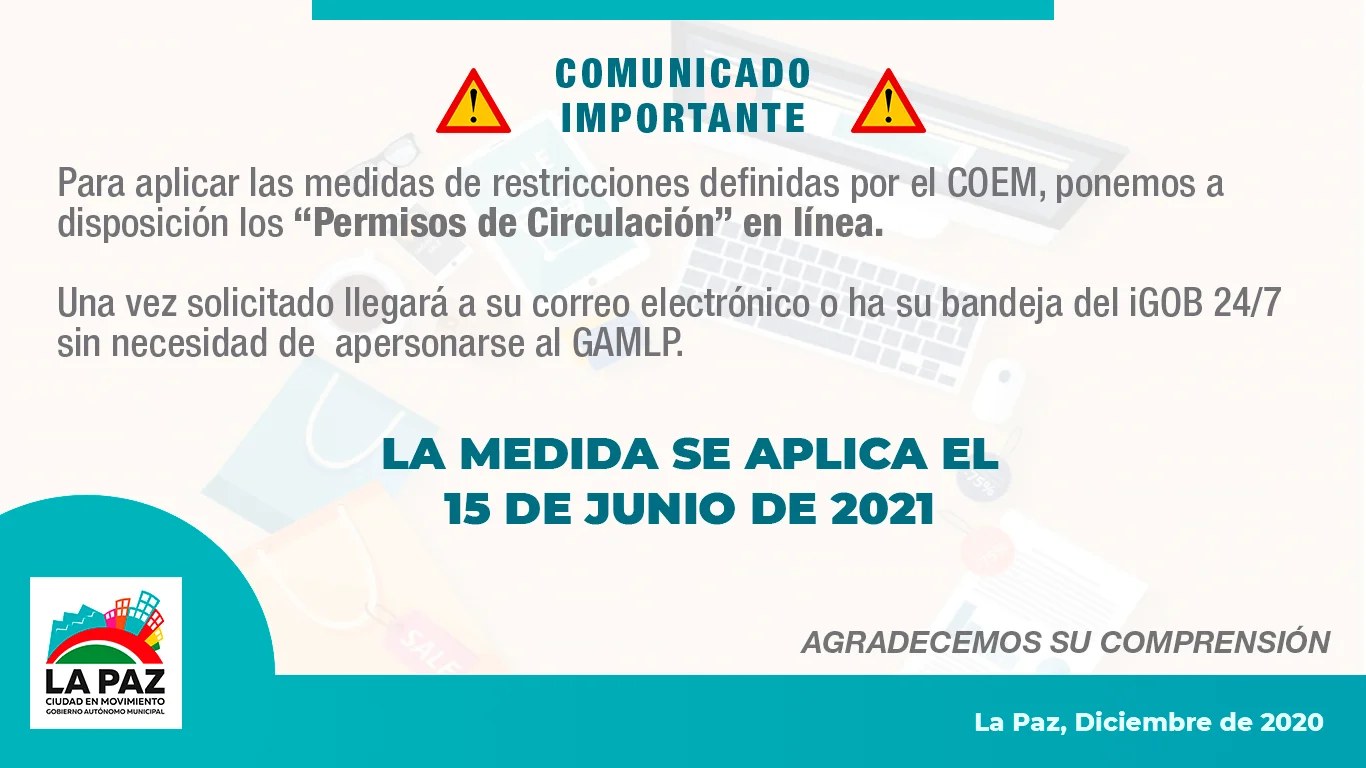
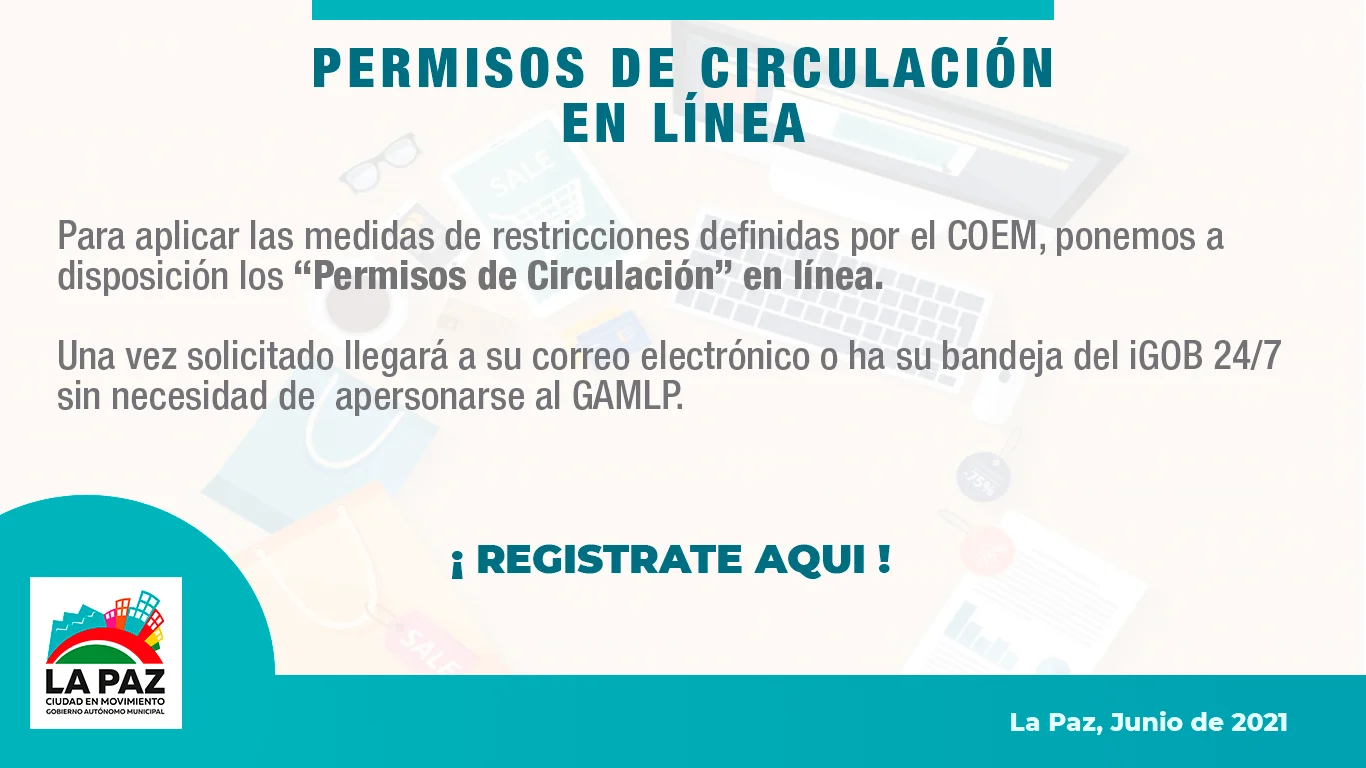
Mod_ajustePOPUP_adicionBotones_18062021

diff --git a/AngularFrontEnd/index.html b/AngularFrontEnd/index.html
@@ -58,7 +58,11 @@
 	<div class="modalCom">
 		<div class="container-fluid" style="margin: auto;">
 			<div class="comContenido">
-				<img src="structureIgob/images/publicNews/pub4.png" alt="" style="width: 100%;">
+				<img src="structureIgob/images/publicNews/info1.webp" alt="" style="width: 100%;">
+						<div data-aos="fade-up" data-aos-delay="100" class="text-center">
+						<a href="app/view/autenticacion/partials/login_.html" target="_self" class="btn btn-secondary mr-2 mb-2"><i class="icofont-user"></i> Iniciar Sesión</a>
+						<a href="app/view/autenticacion/partials/registro_.html#/registro" target="_blank" class="btn btn-secondary mr-2 mb-2"><i class="icofont-clip-board"></i> Registrarse</a>
+						</div>
 			</div>
 	
 		</div>
@@ -635,6 +639,10 @@
 								  <div class="carousel-item active carousel-item-left"> <img class="d-block w-100" src="structureIgob/images/publicNews/pub4.png" alt="First slide">
 									  <div class="carousel-caption d-none d-md-block">
 										  <!-- <h4> <i class="icofont-chat"></i> SliderComunicado1</h4> -->
+										 	<div data-aos="fade-up" data-aos-delay="100" class="text-center">
+												<a href="app/view/autenticacion/partials/login_.html" target="_self" class="btn btn-secondary mr-2 mb-2"><i class="icofont-user"></i> Iniciar Sesión</a>
+												<a href="app/view/autenticacion/partials/registro_.html#/registro" target="_blank" class="btn btn-secondary mr-2 mb-2"><i class="icofont-clip-board"></i> Registrarse</a>
+											</div>
 									  </div>
 								  </div>
 								  <div class="carousel-item carousel-item-next carousel-item-left"> <img class="d-block w-100" src="structureIgob/images/publicNews/pub3.png" alt="Second slide">

diff --git a/AngularFrontEnd/structureIgob/css/style.css b/AngularFrontEnd/structureIgob/css/style.css
@@ -1663,7 +1663,7 @@ Fab Municipality
   /* margin: auto; */
   width: 60%;
   height: 60%;
-  background: #fff;
+  background: #00000099;
   border-radius: 5px;
 }
 /* Tablet Device = 768px */
